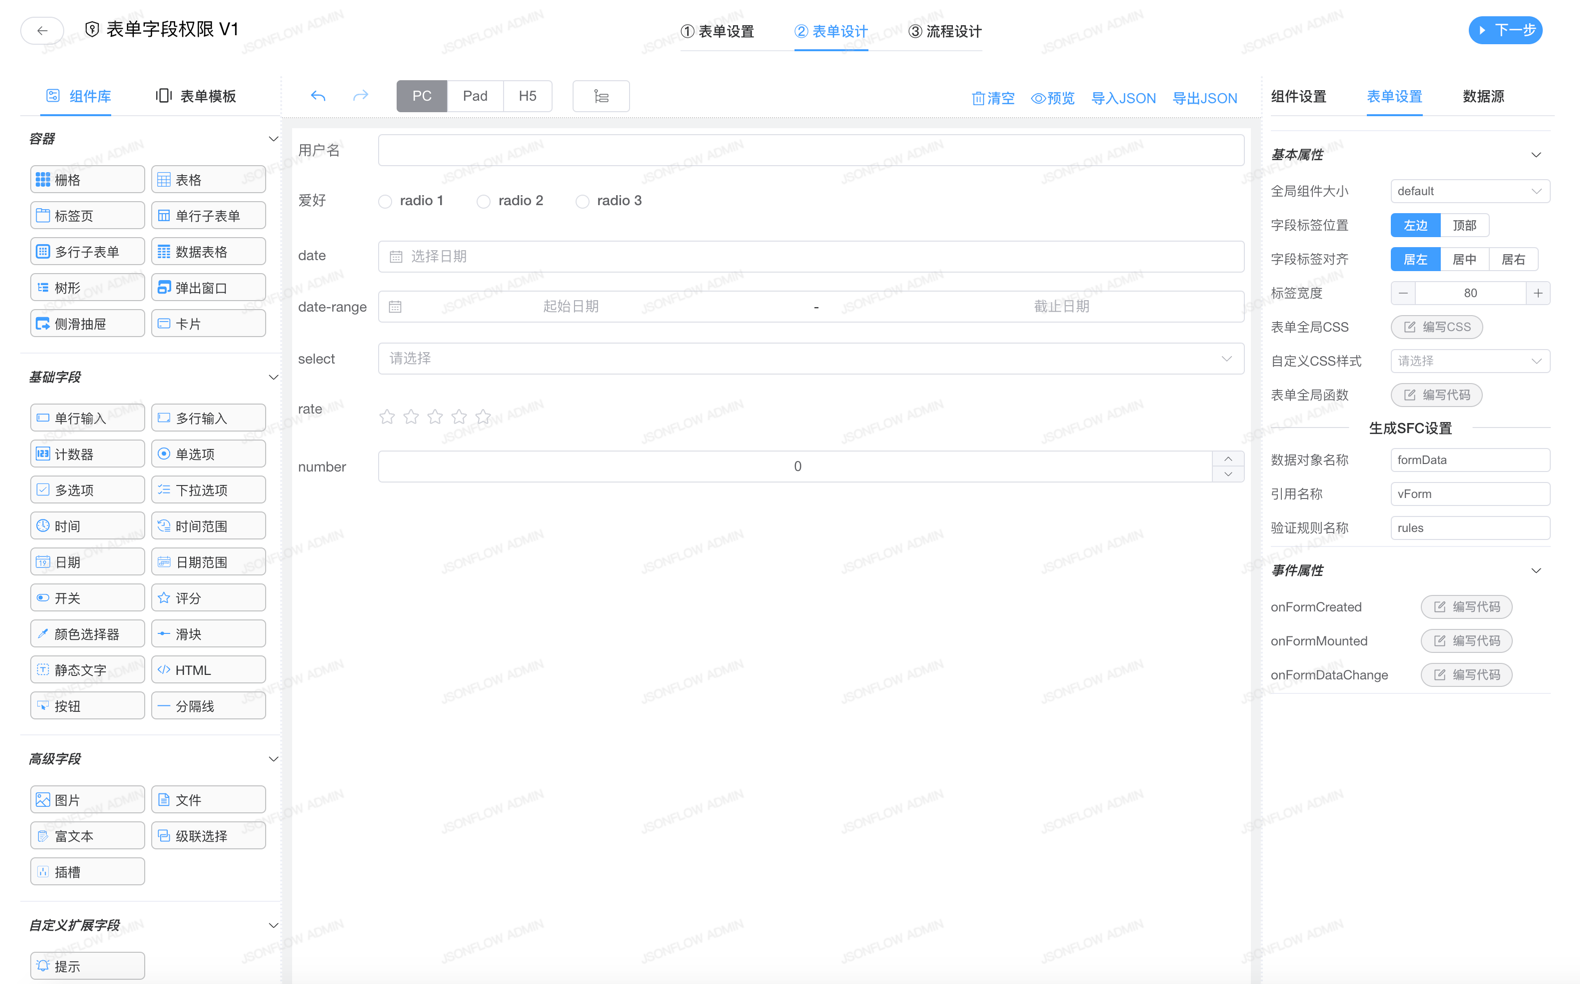
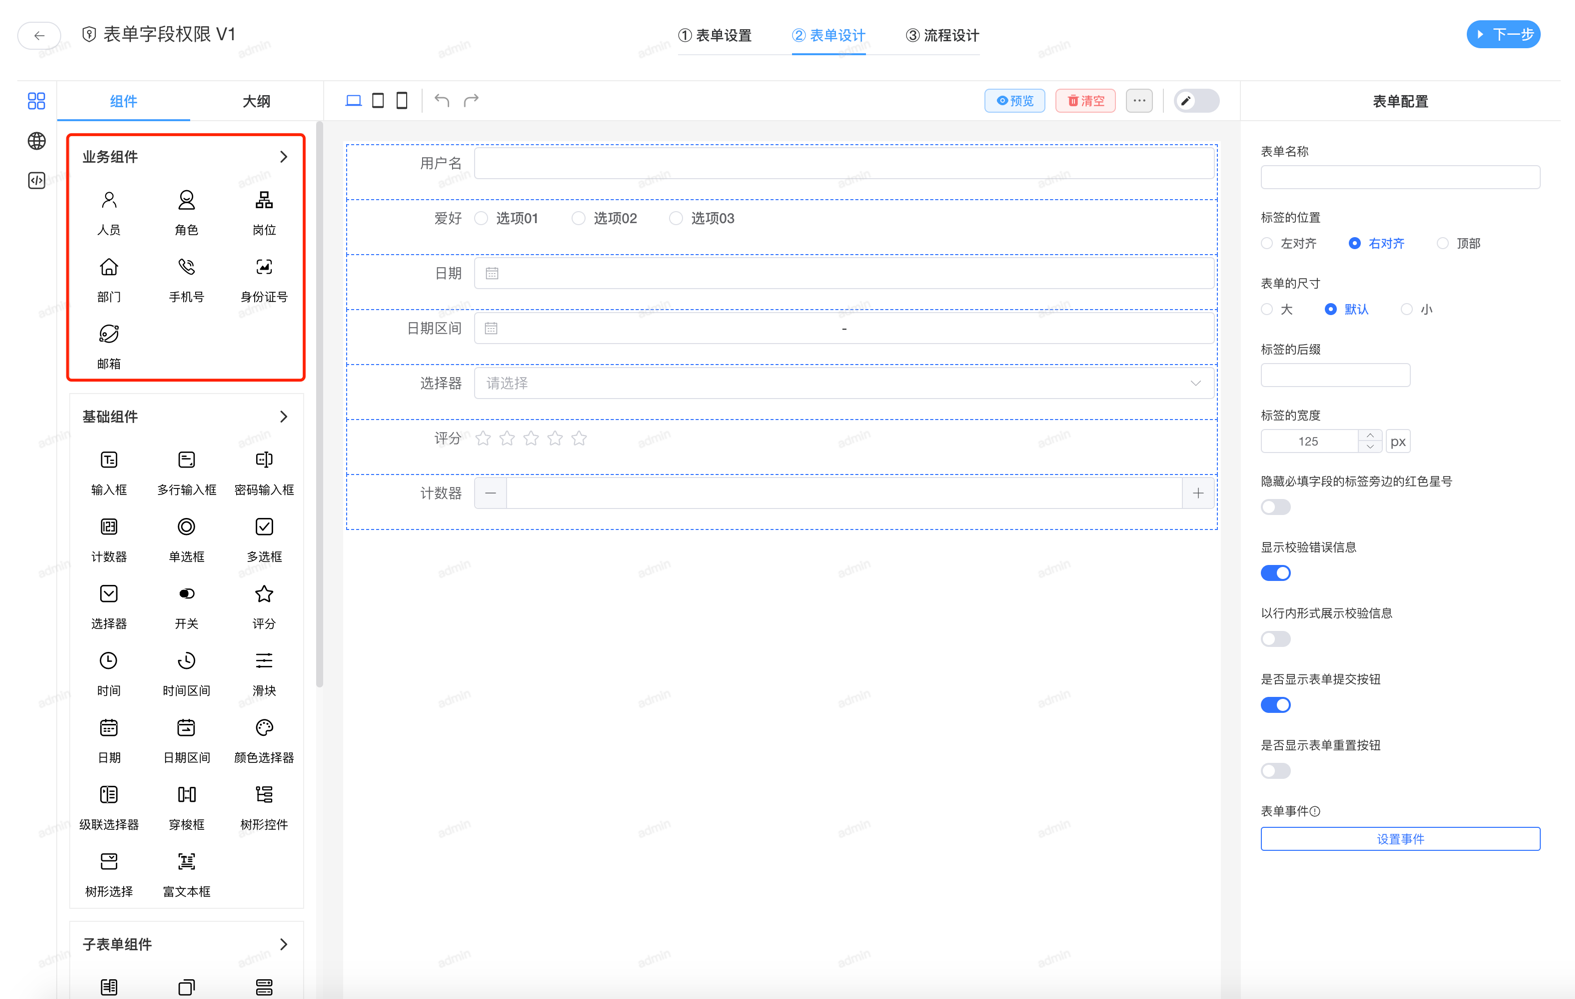
:sparkles: Introducing new features.表单设计器支持自定义组件即接入本地Vue业务组件

diff --git a/README.md b/README.md
@@ -16,15 +16,17 @@
 ### JsonFlow在线文档（VIP文档暂未开源-请联系作者）
 [点击预览](https://flow.pig4cloud.com/)
 
+#### 🎉🎉🎉JsonFlow系统：创新中式工作流引擎，解锁工作效率新境界
 
-#### 🎉🎉🎉绝对简单但强大易用易扩展且适应复杂场景的中国式审批的工作流引擎系统
+### 简要概述
 
-#### 🔥🔥🔥JsonFlow工作流支持表结构设计、表单字段定义、表单设计、流程设计、打印模板设计等操作一步到位
-#### 🔥🔥🔥JsonFlow工作流支持`Vue3技术栈`，一套代码同时支持`钉钉简单模式与专业模式`，并提供`两套可选UI界面`，同时适配`PC、Pad、H5`多端显示，支持`移动端APP办公`（`含流程图回显`）
+- 🎉🎉🎉JsonFlow工作流支持`Vue3技术栈`，一套代码同时支持 **`钉钉简单模式与专业模式`**，并提供`两套可选UI界面`，同时适配 **`PC、Pad、H5`** 多端显示，支持`移动端APP办公`（`含流程图回显`）
+
+- 🔥🔥🔥JsonFlow工作流支持表结构设计、表单字段定义、表单设计、流程设计、打印模板设计等设计功能，表单设计器支持 **`自定义组件`** 即接入 **`本地Vue业务组件`**，接入非常简单高效
 
 ### 全网Top级功能🔥自研国产分布式流程引擎
 - 1、🔥🔥JsonFlow工作流支持众多中国式特色审批操作，支持`达梦`等国产数据库，`自研报表设计器`支持`自定义报表格式`导出
-- 2、🔥🔥JsonFlow工作流对已发起的`流程图实例`再次可视化`单独编辑配置`，如`加减节点`（`在图中自动布局回显`）、`加减参与者人员`。非常方便维护
+- 2、🔥🔥JsonFlow工作流对已发起的`流程图实例`再次可视化`单独编辑配置`，如`加减节点`（`在图中自动布局回显`）、`加减参与者`即加减签。非常方便维护
 - 3、🔥🔥JsonFlow工作流对已发起的`表单实例`再次可视化可`单独编辑配置`，如改变页面布局或字段。非常方便维护
 - 4、🔥🔥JsonFlow工作流选择参与者支持`用户、角色、岗位、部门`，流程图设计器支持节点与任务分离自由`切换UI`显示效果
 - 5、🔥🔥JsonFlow工作流引擎与业务表单系统`完全解耦`，支持配置`第三方业务系统`Http接口或表单
@@ -40,37 +42,44 @@
 
 #### 系统介绍
 
-- 🎉🎉 JsonFlow工作流已支持`Vue3技术栈`，一套前端代码同时支持`钉钉简单模式与专业模式`，并提供`两套可选UI界面`，同时适配`PC、Pad、H5`多端显示，支持`移动端APP办公`（含流程图回显）
+- 🎉🎉 JsonFlow工作流是一个`100%纯国产`自研的`分布式`流程引擎系统(`非开源BPM`)，内置自动布局最优算法布局，前后端纯JSON交互格式简单，支持`信创国产化`专为中国式特色审批而生。支持在线零代码进行表单设计与流程设计，`前后端代码完全自研可控，非常容易进行二次开发`，致力于解决传统BPM流程复杂难扩展、后期维护闹心、数据统计烦心等痛点问题
 
-- 🔥🔥 JsonFlow提供文档和配套视频，**功能描述清晰简洁，学习成本低**，持续更新优化中（VIP文档-请先订阅VIP）
-#### 工作流管理、工单管理、工作交接模块
+- 🔥🔥 此系统从 2019 开始发布生产环境使用，不断优化趋于稳定，于 2022 年正式发布商业版！经过作者不断迭代和优化，孵化出了简单易用易扩展稳定强大的国产工作流系统。
 
-- 本系统将工作流引擎与工单系统分离，目的在于解耦减少业务对工作流的入侵，以便于业务后期各种复杂报表统计
-
-- 本系统同时支持在线工作与任务交接，弥补了传统BPM工作流需单独处理的不足，方便公司人员流动后的工作交接
+#### 操作介绍
+- JsonFlow工作流支持表结构设计、表单字段定义、表单设计、流程设计、打印模板设计等操作，配置简单高效易理解，几分钟即可完成
 
 #### 钉钉UI界面⭐-常用于普通用户操作
-- ![01](public/usages/img_1.png)
+![01](public/usages/img_1.png)
 
 #### 专业UI界面⭐-常用于专业用户操作
 - 流程图设计：拖拽节点到绘图区，进行任意连线。可自由设置连线/路由/布局`改变连线形式`、画布内的节点/连线均`可拖拽和调整大小`，未来可自定义图形
-- ![01](public/usages/img.png)
+
+![01](public/usages/img.png)
+
 - 查看流程图：流程图节点与连线根据状态显示不同颜色和图标，鼠标移动到节点可显示节点与审批信息，放到线上可显示条件信息（注：显示信息可自行调整）
-- ![04](public/usages/04.png)
+
+![04](public/usages/04.png)
 
 #### 在线设计
-- 支持表结构设计、表单字段定义、表单设计、流程设计、打印模板设计等操作一步到位
-- ![04](public/flow/img_1.png)
+- 模型设计分三个步骤`表单设置、表单设计、流程设计`，一次托拉拽即可完成表结构设计、表单字段定义、表单设计、流程设计等设计功能。流程设计的`流程图`和表单设计的`表单`均支持`PC、Pad、H5（即APP端）`，一次设计多端显示
+
+![04](public/flow/img_1.png)
 
 #### 在线办公
 ##### 发起审批
 - 支持在线一键发起办公申请工单、办理任务、WebSocket任务消息通知等
-  ![05](public/usages/05.png)
+
+![05](public/usages/05.png)
+
 ##### 审批管理
 - 在待我审批菜单中点审批，可以查看/修改表单信息、查看审批过程、查看流程图等信息
-  ![08](public/flow/08.png)
+
+![08](public/flow/08.png)
+
 #### 流程监控
-  ![08](public/flow/60.png)
+
+![08](public/flow/60.png)
 
 - 更多功能期待你体验...
 
